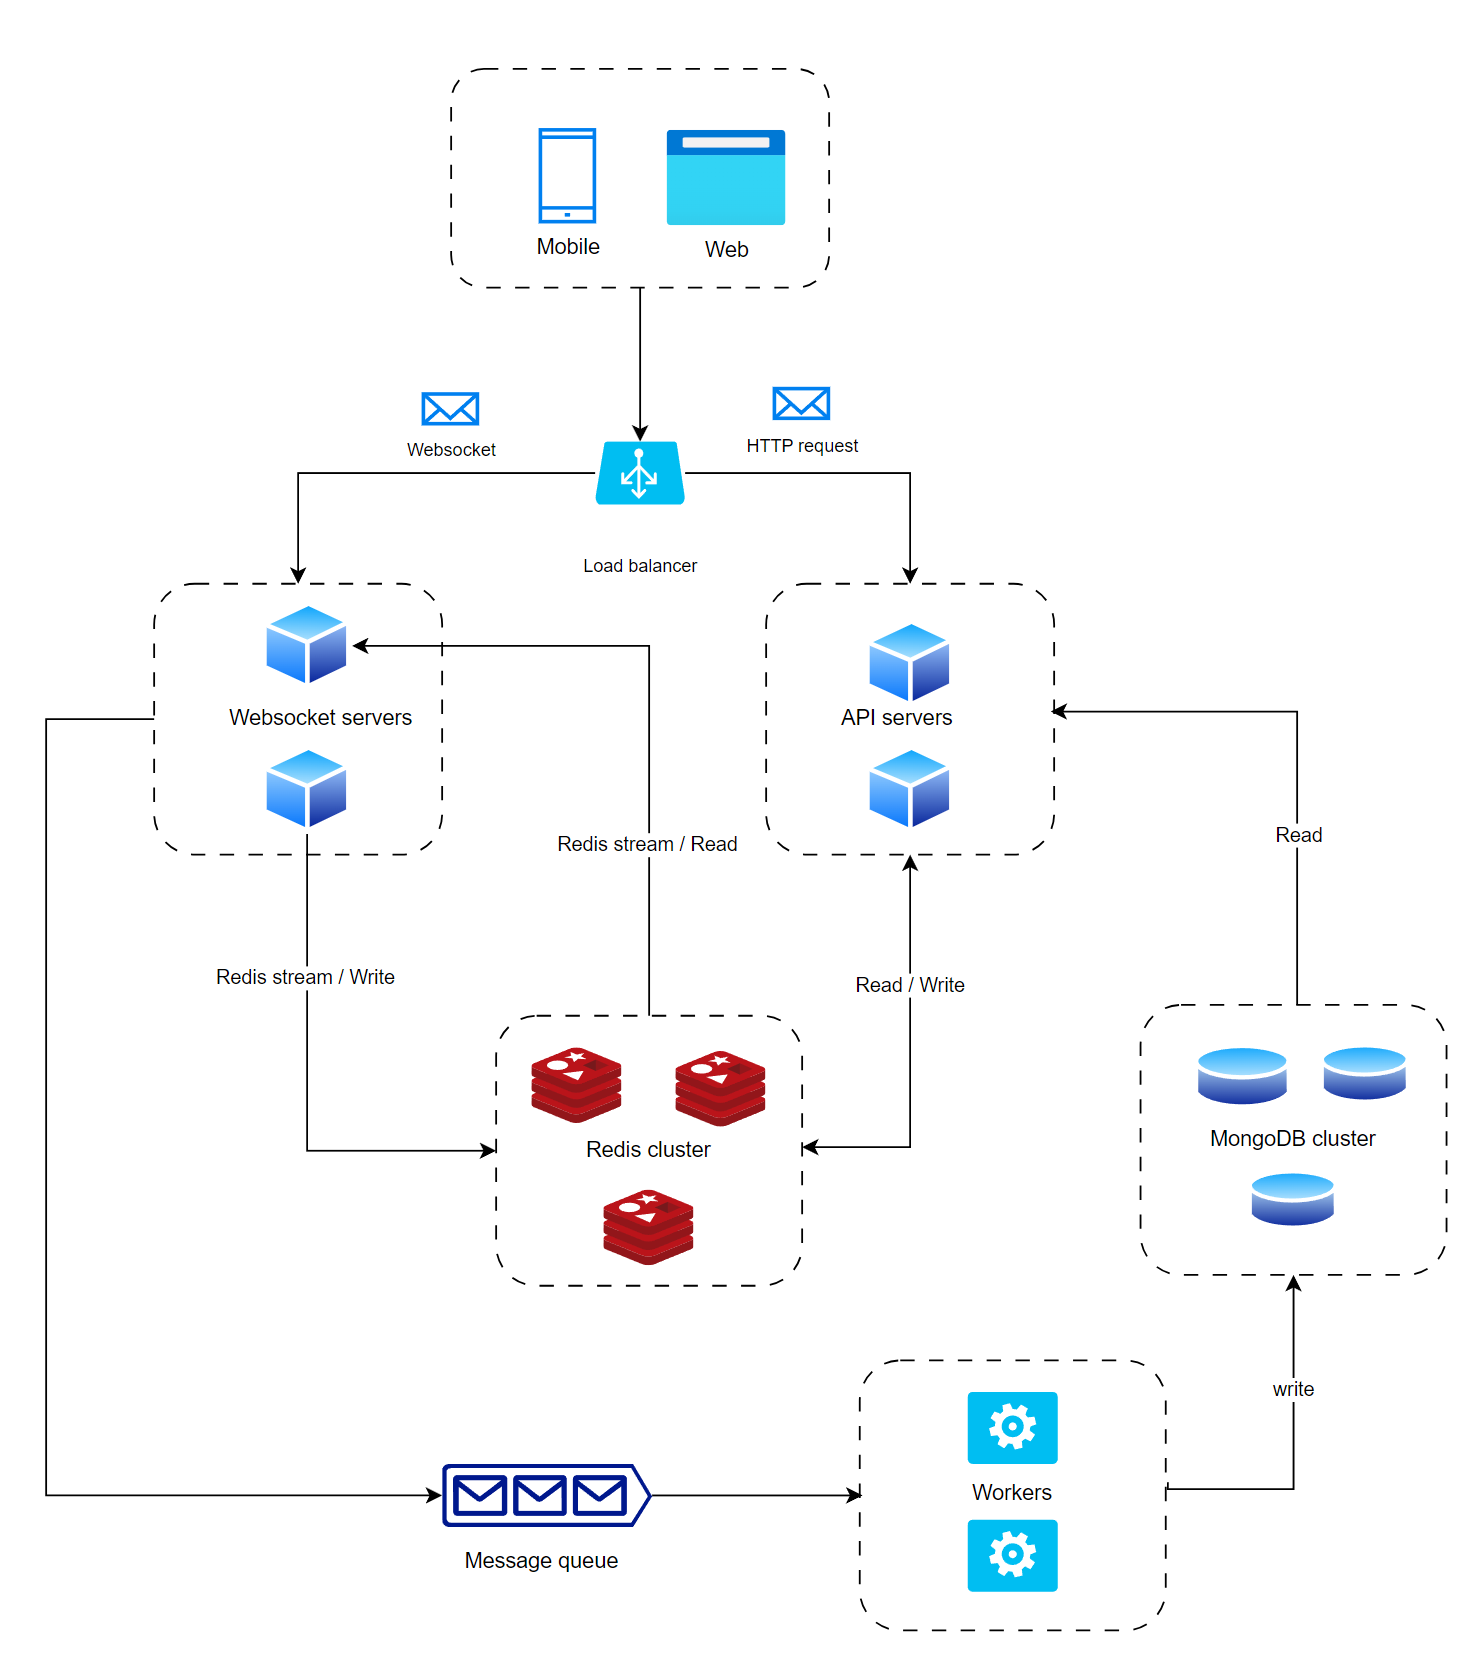
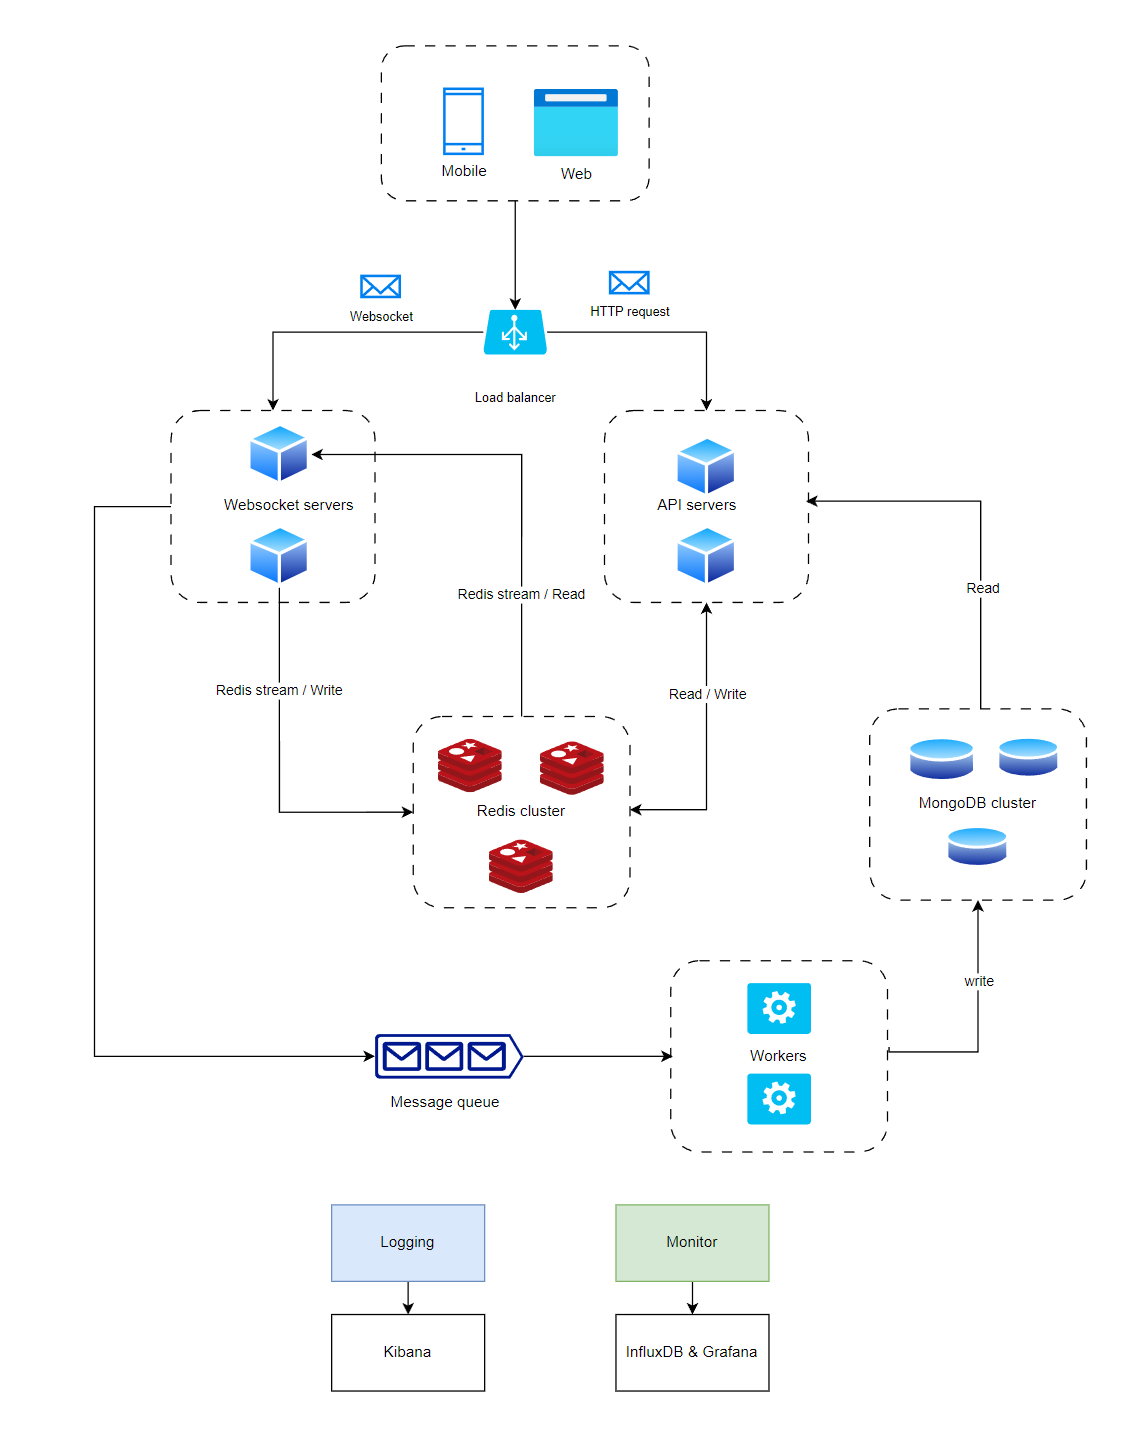
udpate readme

diff --git a/README.md b/README.md
@@ -58,3 +58,7 @@
  - Do support atomic update using `$inc`, which is needed in this usecase
 
 **Kafka for message queue**: Supports exactly-once processing, ensuring that each message is processed reliably without duplication. It is designed for fast throughput, allowing for quick handling of large volumes of data. Additionally, Kafka is easy to scale. 
+
+**Kibana**: Kibana provides easy visualization, quick searching and real-time monitoring
+
+**InfluxDB & Grafana**: Offers a powerful solution for time-series data monitoring and visualization
